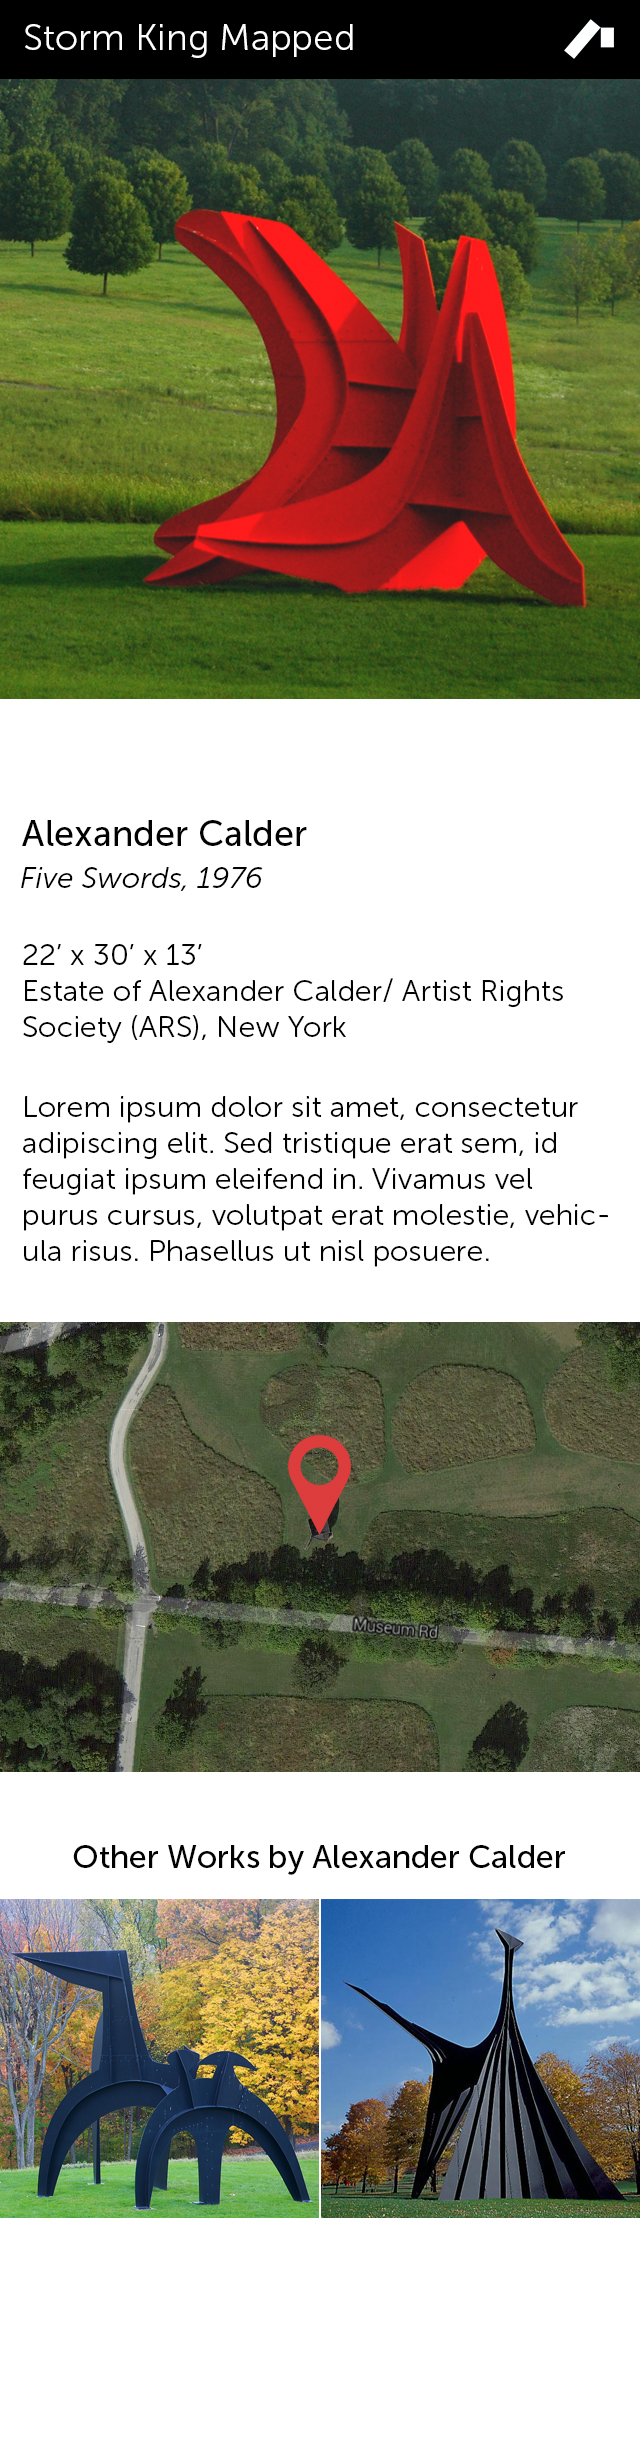
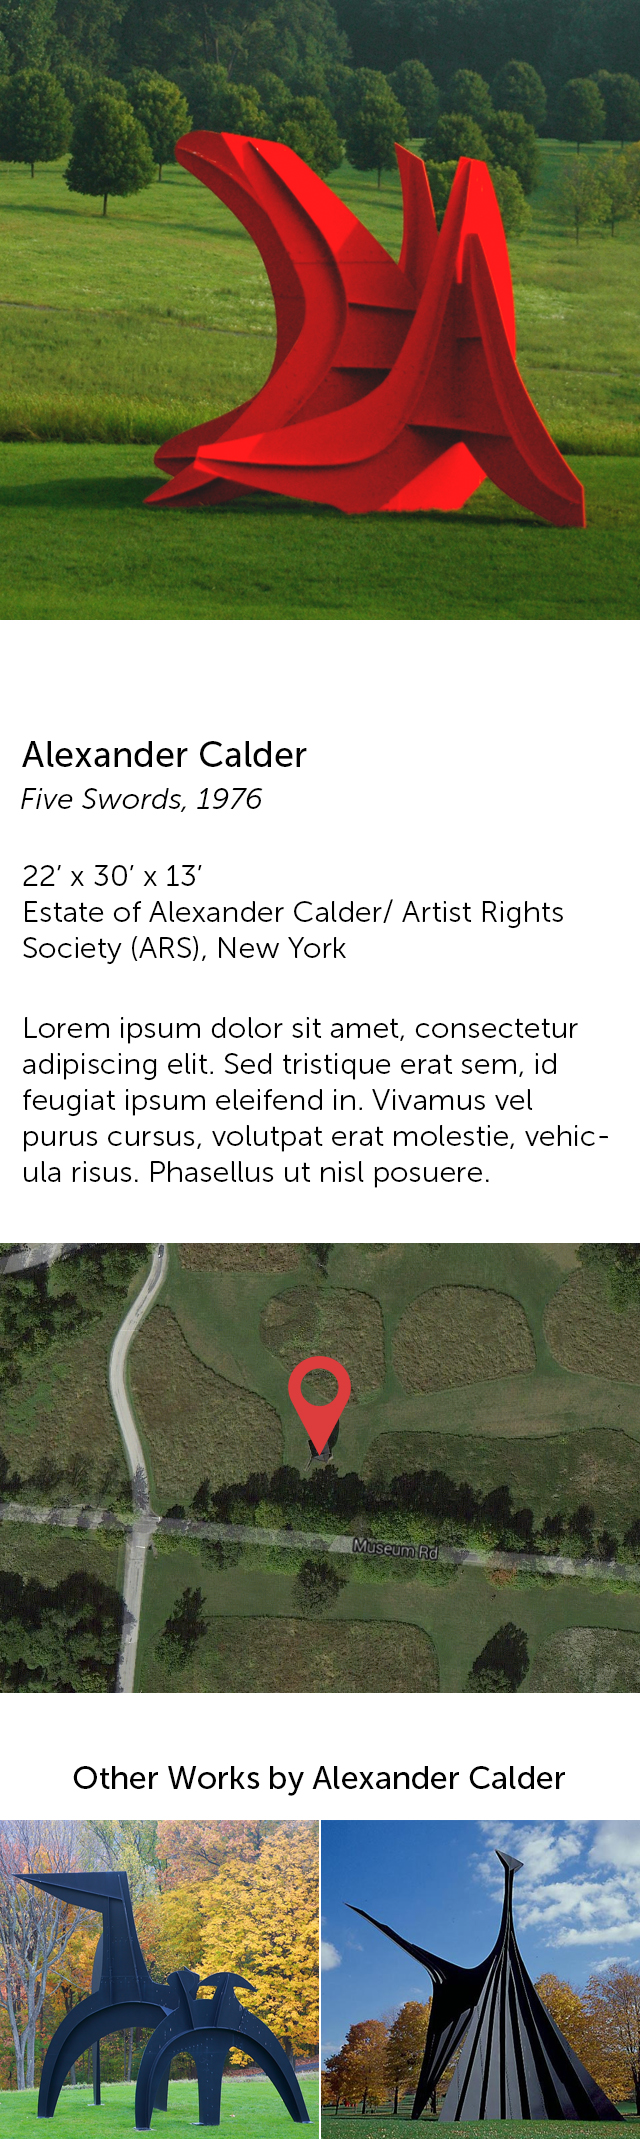
Setup title bar separate from images. Also got it setup as a back button for the site.
Updated images to fit with new nav element.

diff --git a/index.html b/index.html
@@ -25,18 +25,26 @@
 </head>
 <body>
 
-	<div class="container">
+	<!-- <div class="container">
 		<h1><a href="#">Storm King Mapped 0.1</a></h1>
 
-		<!-- <ul class="nav nav-pills">
+		<ul class="nav nav-pills">
 			<li><a href="#">Thumbs</a></li>
 			<li><a href="#/sculptures/calder-the_arch">The Arch, 1975</a></li>
-		</ul> -->
+		</ul>
+	</div> -->
+
+	<div class="container" id="top-bar">
+		<a id="back-button" ><img src="images/title-bar-back.png" /></a>
 	</div>
 
 	<div class="container" id="app">
 
-	</div>
+	</div><!-- -->
+
+<script>
+$('#back-button').click( function() {window.history.back()});
+</script>
 
 </body>
 </html>

diff --git a/css/style.css b/css/style.css
@@ -3,8 +3,10 @@ body {padding:0px; background:#777;}
 .container h1 {margin-bottom:30px; padding-left:11px;}
 .container h1 a {color:black;}
 
+#thumbs {margin-top:40px;}
+#thumbs h2 {margin:auto; padding-bottom:50px; text-align:center;}
 #thumbs img {width:159px;}
 #thumbs a {float:left; padding-top:2px;}
-#thumbs a:nth-child(odd) {padding-right:2px;}
+#thumbs a:nth-child(even) {padding-right:2px;}
 
 /*.single-sculpture img {width:100%;}*/

diff --git a/js/views/thumbview.js b/js/views/thumbview.js
@@ -2,6 +2,7 @@ var ThumbView = Backbone.View.extend({
 
 	template: Handlebars.compile(
 		'<div id="thumbs">' + 
+		'<h2>Thumbnails</h2>' +
 		'{{#each models}}' +
 			'<a href="#/sculptures/{{attributes.url}}">' +
 				'<img src="images/{{attributes.thumbnail}}" />' +

diff --git a/js/views/homepage.js b/js/views/homepage.js
@@ -9,7 +9,7 @@ var Homepage = Backbone.View.extend({
 	),
 	
 	render: function () {
-		this.$el.html(this.template(this.options));
+		this.$el.html(this.template());
 		return this;
 	}
 });
